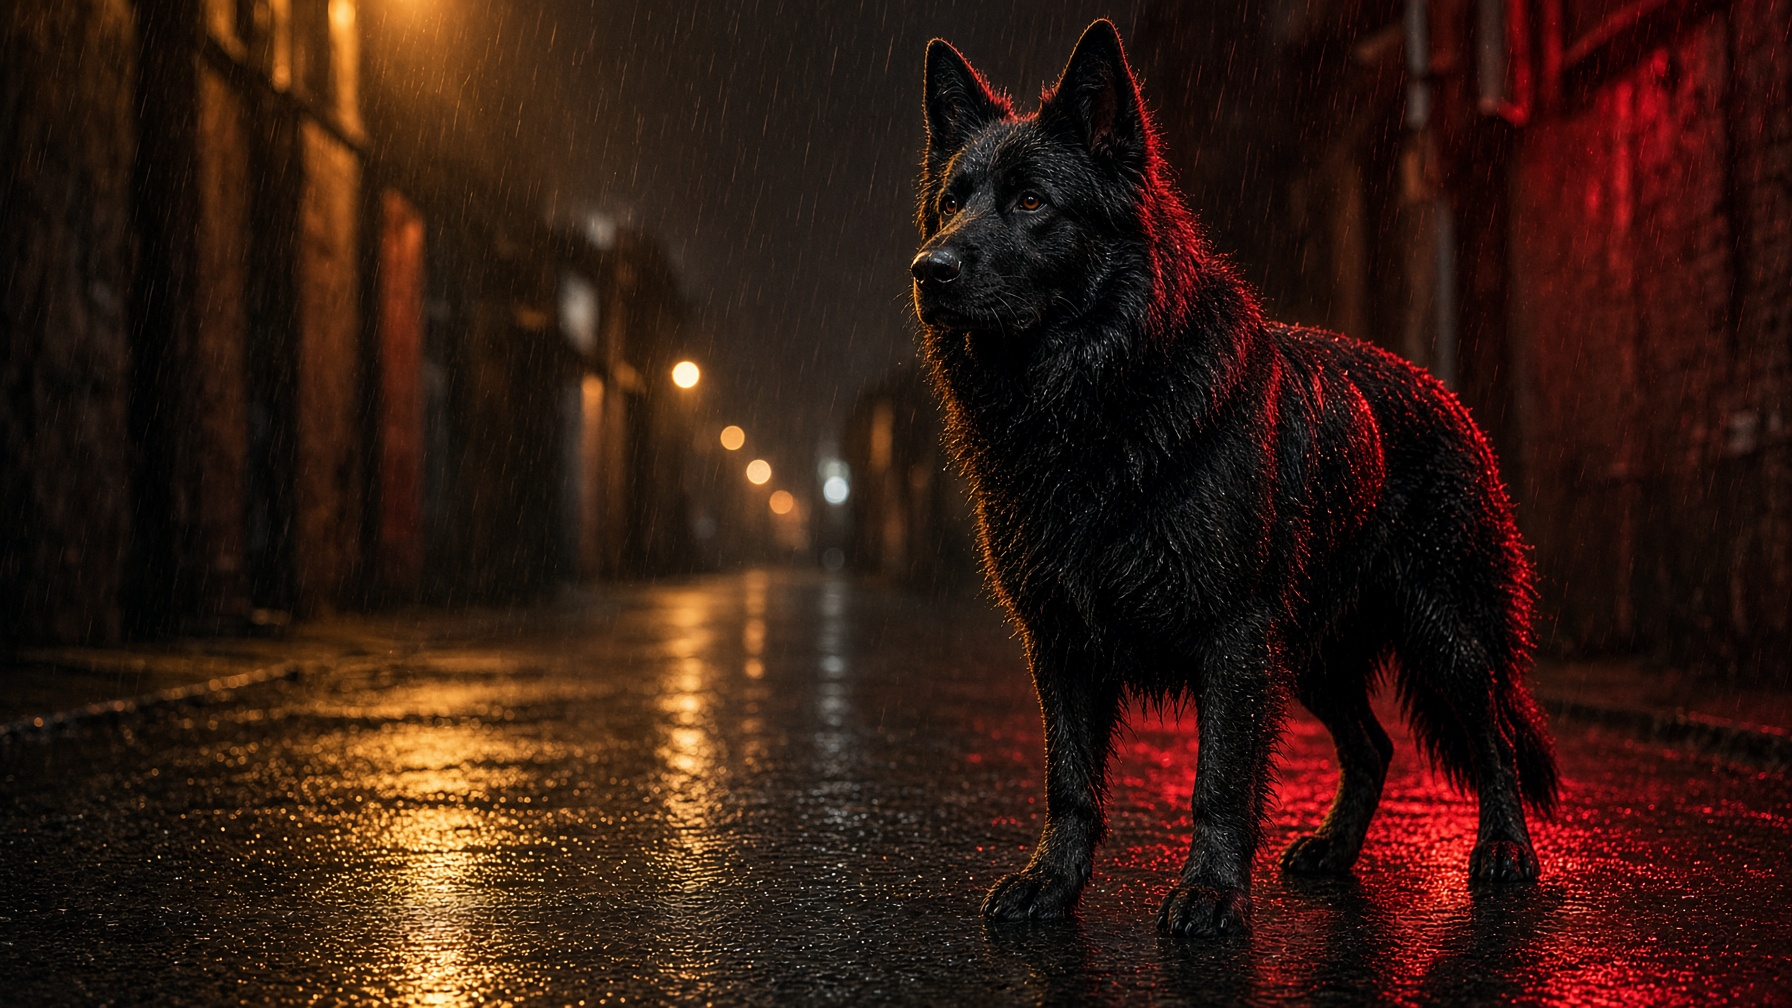
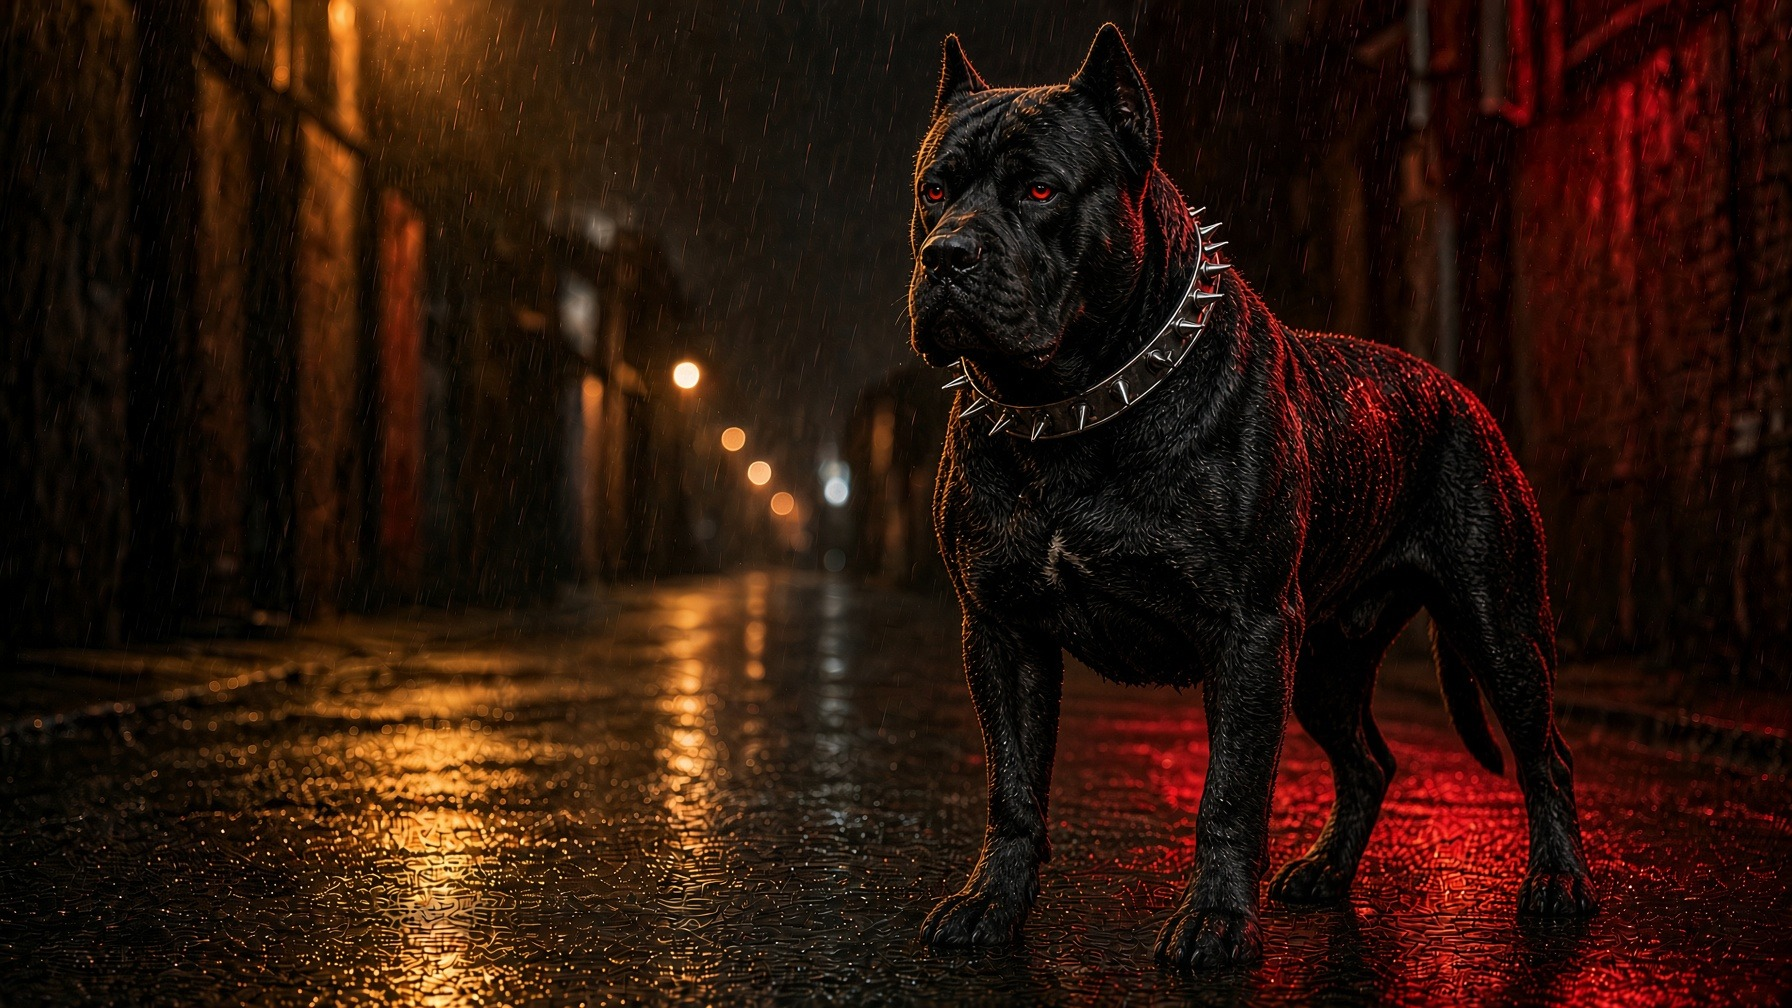
Swap the shepherd for a Cane Corso with spiked collar
Hero, mobile, avatar, header mark, OG card, and favicon. Same rain and crimson grade.

diff --git a/src/routes/odds-101.tsx b/src/routes/odds-101.tsx
@@ -40,12 +40,12 @@ function Odds101() {
             <div className="mt-5 overflow-hidden rounded-xl border border-line">
               <img
                 src="/hero-mobile.jpg"
-                alt="Black shepherd, crimson eyes"
+                alt="Black Cane Corso, crimson eyes, spiked collar"
                 className="aspect-[9/16] max-h-[32rem] w-full object-cover object-[center_12%] md:hidden"
               />
               <img
                 src="/hero-dog-v4.jpg"
-                alt="Black street dog in rain, crimson rim light"
+                alt="Cane Corso in the rain, crimson rim light, spiked collar"
                 className="hidden aspect-[16/9] w-full object-cover object-[center_28%] md:block"
               />
             </div>

diff --git a/src/routes/index.tsx b/src/routes/index.tsx
@@ -19,7 +19,7 @@ function Home() {
           <div className="relative h-80 overflow-hidden md:hidden">
             <img
               src="/hero-mobile.jpg"
-              alt="Black shepherd, crimson eyes"
+              alt="Black Cane Corso, crimson eyes, spiked collar"
               className="size-full object-cover object-[center_10%] brightness-75 contrast-110"
             />
             <div className="pointer-events-none absolute inset-x-0 bottom-0 h-16 bg-gradient-to-t from-bg to-transparent" />

diff --git a/src/components/hotspot-poster.tsx b/src/components/hotspot-poster.tsx
@@ -98,7 +98,7 @@ export function HotspotPoster() {
           />
           <img
             src="/hero-dog-v4.jpg"
-            alt="Black street dog in rain, crimson rim light"
+            alt="Cane Corso in the rain, crimson rim light, spiked collar"
             className="pointer-events-none absolute inset-0 hidden size-full object-cover object-[center_40%] md:block"
             draggable={false}
           />

diff --git a/src/components/site-header.tsx b/src/components/site-header.tsx
@@ -8,7 +8,7 @@ export function SiteHeader() {
         <Link to="/" className="flex items-center gap-2 no-underline">
           <img
             src="/header-mark.jpg"
-            alt=""
+            alt="$UNDERDOG"
             className="size-10 rounded-full object-cover"
           />
           <span className="font-display text-2xl tracking-wide text-accent">
